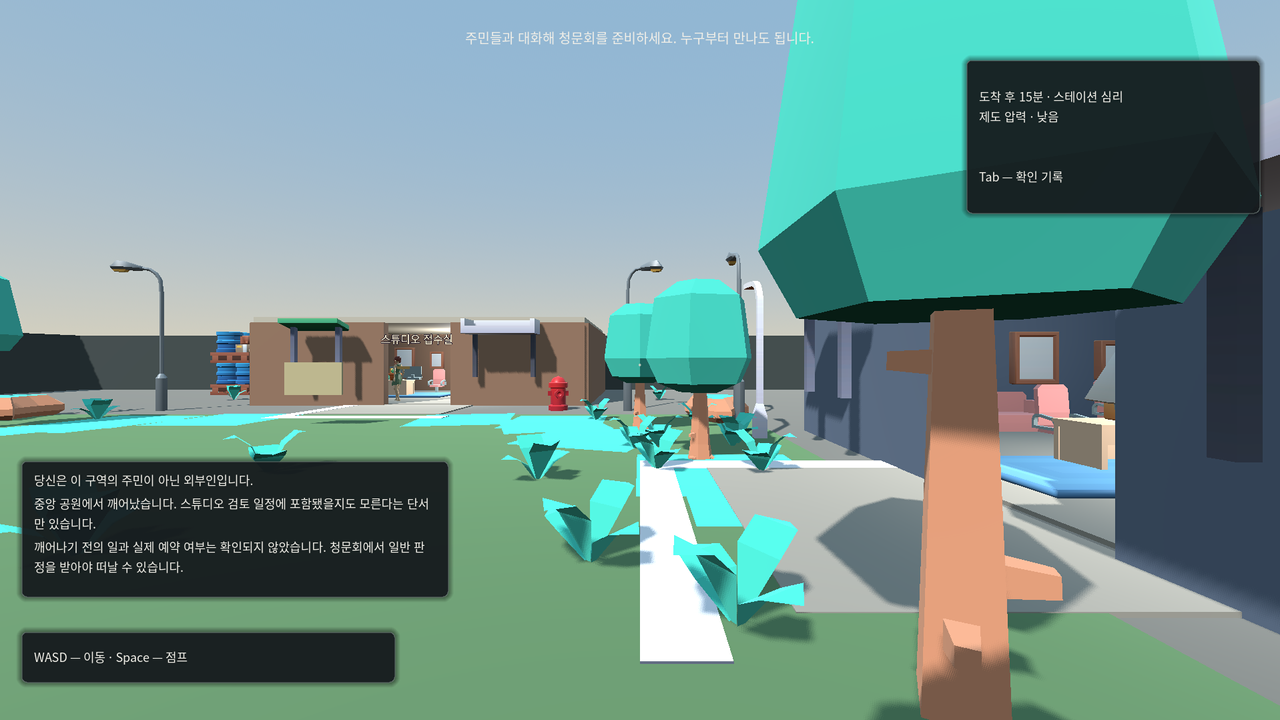
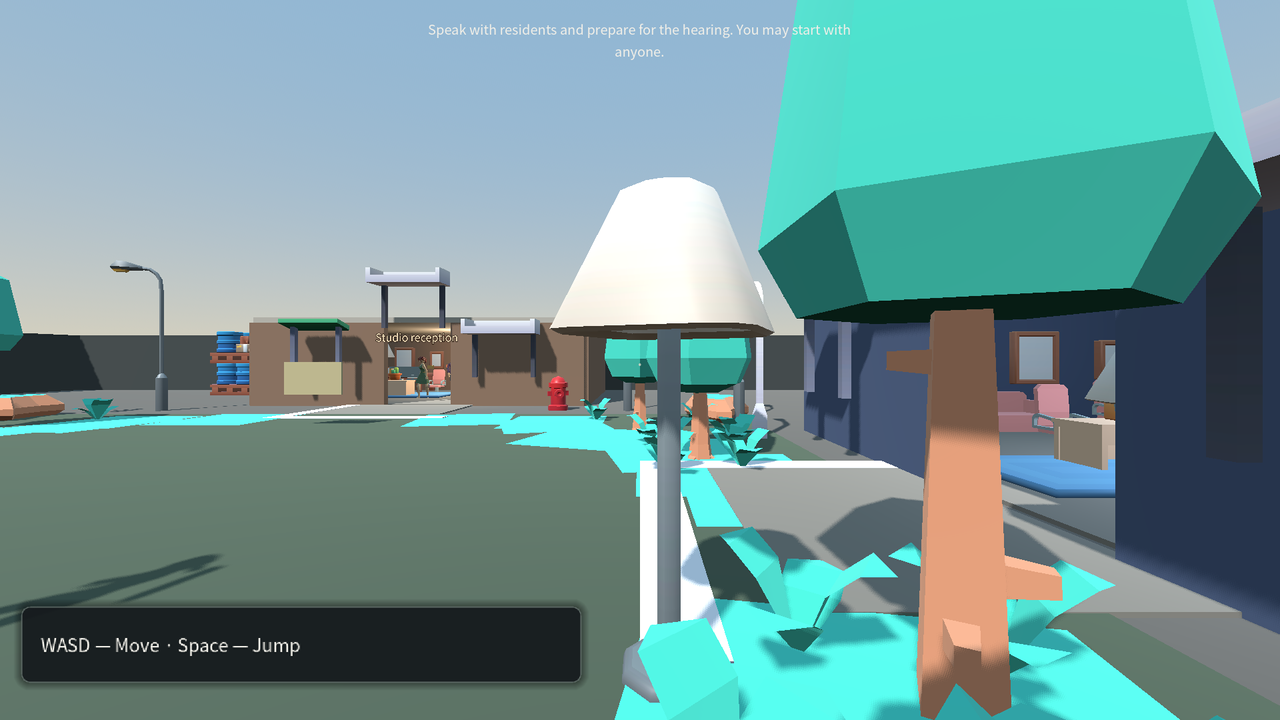
docs: replace case study captures with English UI (#106)
Check: npm --prefix website run typecheck

Check: npm --prefix website run build

Check: validate_mermaid_markdown.sh website/blog/2026-07-28-qwen38-max-dream-of-one.md

diff --git a/website/blog/2026-07-28-qwen38-max-dream-of-one.md b/website/blog/2026-07-28-qwen38-max-dream-of-one.md
@@ -24,8 +24,14 @@ provider call as proof of a finished game.
 
 ![The current Dream of One first-person town prototype](/img/qwen38/town-prototype.png)
 
-*The current Godot prototype. The Qwen3.8 run reused its Studio receptionist
-contract without claiming this rendered route as Qwen3.8 play evidence.*
+*The current Godot prototype running with its English presentation locale.
+The Qwen3.8 run reused its Studio receptionist contract without claiming this
+rendered route as Qwen3.8 play evidence.*
+
+![The Dream of One settings screen in English](/img/qwen38/settings-english.png)
+
+*The English UI used for these public captures. The provider-contract test
+below intentionally ran in Korean to exercise locale validation.*
 
 ## The job I gave Qwen
 
@@ -152,11 +158,6 @@ clarifying question.
 | Fallback calls | 0 |
 | Audit | complete and untruncated |
 | Dropped or in-flight work | 0 |
-
-![The current Dream of One Station hearing interface](/img/qwen38/hearing-prototype.png)
-
-*The current prototype's Station hearing. A Qwen3.8-powered rendered hearing
-remains unverified; this post reports the provider-contract run only.*
 
 Both resolutions reported `transport=live` and the exact Qwen3.8-Max Preview
 profile. The runtime accepted the Korean writing-system checks, the
